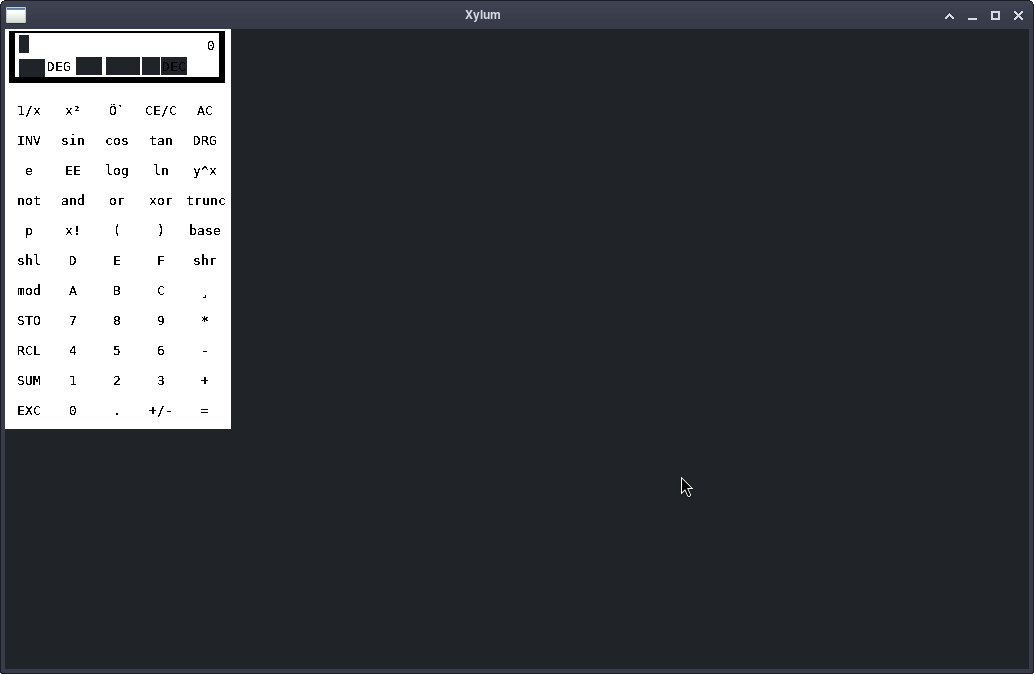
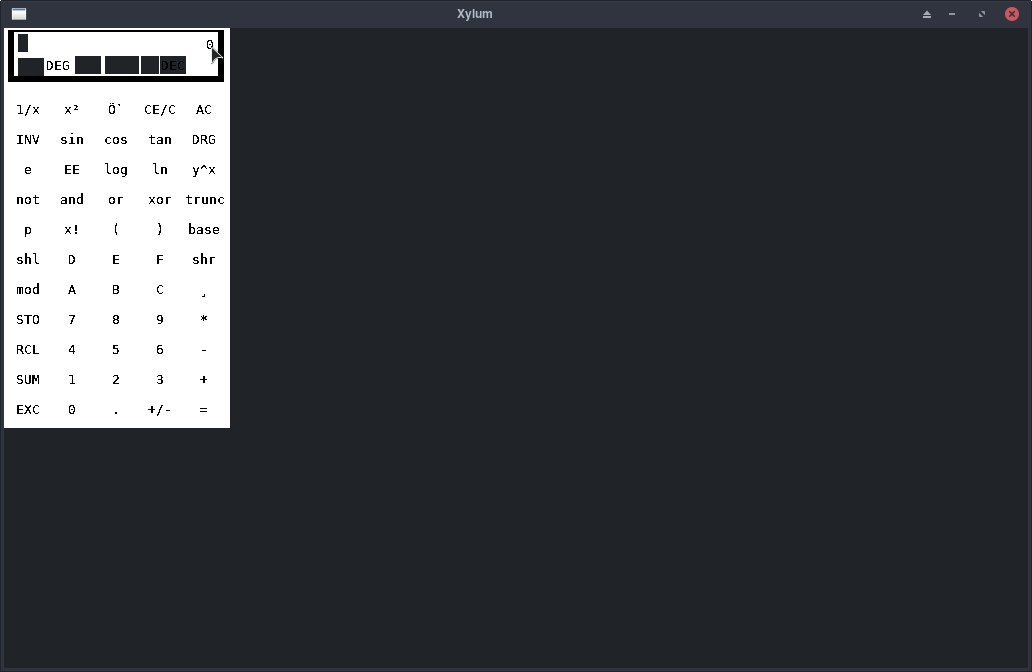
docs(README.md): new screenshots

diff --git a/README.md b/README.md
@@ -21,6 +21,8 @@ Unlike traditional X.Org implementations, Xylum is designed to be:
 - **Modular:** A clean, crate-based workspace.
 - **Modern:** Built to eventually leverage Vulkan for zero-copy hardware acceleration.
 
+Official website [here](https://xylum-foundation.vercel.app/).
+
 ## Current Status
 
 Xylum is in **early development**, but the core X11 protocol is already functional. It can successfully run real, unmodified X11 applications.
